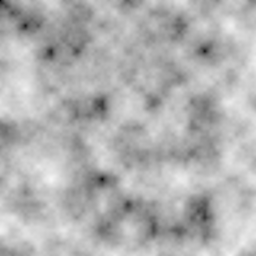
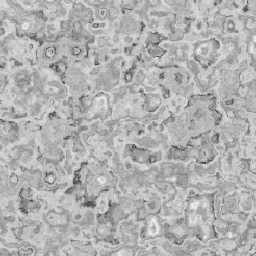
Domain warp

diff --git a/noise/src/render.rs b/noise/src/render.rs
@@ -24,7 +24,7 @@ use bevy::{
             ColorTargetState, ColorWrites, DynamicUniformBuffer, FragmentState, MultisampleState,
             PipelineCache, PrimitiveState, RenderPassColorAttachment, RenderPassDescriptor,
             RenderPipelineDescriptor, Shader, ShaderStages, ShaderType, SpecializedRenderPipeline,
-            SpecializedRenderPipelines, TextureFormat,
+            SpecializedRenderPipelines, StorageBuffer, TextureFormat,
         },
         renderer::{RenderContext, RenderDevice, RenderQueue},
         texture::BevyDefault,
@@ -83,6 +83,7 @@ impl Plugin for NoisePlugin {
 
         render_app
             .init_resource::<NoiseUniformBuffer>()
+            .init_resource::<DomainWarpBuffer>()
             .add_systems(Render, prepare.in_set(RenderSet::Prepare))
             .add_render_graph_node::<ViewNodeRunner<NoiseNode>>(Core2d, NoiseNodeLabel)
             .add_render_graph_edges(Core2d, (Node2d::MainPass, NoiseNodeLabel, Node2d::Bloom));
@@ -111,7 +112,9 @@ pub struct NoiseSettings {
     pub frequency: f32,
     pub amplitude: f32,
     pub enable_fbm: bool,
+    pub enable_domain_warp: bool,
     pub fbm: FBMSettings,
+    pub domain_warp: Vec<DomainWarpSettings>,
 }
 
 impl Default for NoiseSettings {
@@ -121,11 +124,16 @@ impl Default for NoiseSettings {
             frequency: 10.,
             amplitude: 0.5,
             enable_fbm: true,
+            enable_domain_warp: true,
             fbm: FBMSettings {
-                octaves: 4,
+                octaves: 6,
                 lacularity: 2.,
                 gain: 0.5,
             },
+            domain_warp: vec![DomainWarpSettings {
+                offset_a: Vec2 { x: 0., y: 0. },
+                offset_b: Vec2 { x: 5.2, y: 1.3 },
+            }],
         }
     }
 }
@@ -135,6 +143,12 @@ pub struct FBMSettings {
     pub octaves: u32,
     pub lacularity: f32,
     pub gain: f32,
+}
+
+#[derive(ShaderType, Clone, Copy, Reflect)]
+pub struct DomainWarpSettings {
+    pub offset_a: Vec2,
+    pub offset_b: Vec2,
 }
 
 #[derive(ShaderType)]
@@ -150,10 +164,16 @@ pub struct NoiseUniformBuffer {
     pub value: DynamicUniformBuffer<NoiseUniform>,
 }
 
+#[derive(Resource, Default)]
+pub struct DomainWarpBuffer {
+    pub value: StorageBuffer<Vec<DomainWarpSettings>>,
+}
+
 #[derive(Clone, PartialEq, Eq, Hash)]
 pub struct NoisePipelineKey {
     pub ty: NoiseType,
     pub enable_fbm: bool,
+    pub enable_domain_warp: bool,
 }
 
 #[derive(Resource)]
@@ -169,9 +189,12 @@ impl FromWorld for NoisePipeline {
 
         let layout = render_device.create_bind_group_layout(
             None,
-            &BindGroupLayoutEntries::single(
+            &BindGroupLayoutEntries::sequential(
                 ShaderStages::FRAGMENT,
-                binding::uniform_buffer::<NoiseUniform>(false),
+                (
+                    binding::uniform_buffer::<NoiseUniform>(false),
+                    binding::storage_buffer_read_only::<Vec<DomainWarpSettings>>(false),
+                ),
             ),
         );
 
@@ -202,6 +225,10 @@ impl SpecializedRenderPipeline for NoisePipeline {
             shader_defs.push("FBM".into());
         }
 
+        if key.enable_domain_warp {
+            shader_defs.push("DOMAIN_WARP".into());
+        }
+
         RenderPipelineDescriptor {
             label: None,
             layout: vec![self.layout.clone()],
@@ -228,6 +255,7 @@ fn prepare(
     main_view_query: Query<&ExtractedView>,
     noise_settings: Res<NoiseSettings>,
     mut noise_uniform_buffer: ResMut<NoiseUniformBuffer>,
+    mut domain_warp_buffer: ResMut<DomainWarpBuffer>,
     mut sp_pipelines: ResMut<SpecializedRenderPipelines<NoisePipeline>>,
     mut pipeline: ResMut<NoisePipeline>,
     pipeline_cache: Res<PipelineCache>,
@@ -242,6 +270,7 @@ fn prepare(
         NoisePipelineKey {
             ty: noise_settings.ty,
             enable_fbm: noise_settings.enable_fbm,
+            enable_domain_warp: noise_settings.enable_domain_warp,
         },
     ));
 
@@ -256,6 +285,13 @@ fn prepare(
         fbm: noise_settings.fbm,
     });
     noise_uniform_buffer
+        .value
+        .write_buffer(&render_device, &render_queue);
+
+    domain_warp_buffer
+        .value
+        .set(noise_settings.domain_warp.clone());
+    domain_warp_buffer
         .value
         .write_buffer(&render_device, &render_queue);
 }
@@ -283,7 +319,11 @@ impl ViewNode for NoiseNode {
         else {
             return Ok(());
         };
+
         let Some(noise_uniform) = world.resource::<NoiseUniformBuffer>().value.binding() else {
+            return Ok(());
+        };
+        let Some(domain_warp_storage) = world.resource::<DomainWarpBuffer>().value.binding() else {
             return Ok(());
         };
 
@@ -292,7 +332,7 @@ impl ViewNode for NoiseNode {
         let bind_group = render_context.render_device().create_bind_group(
             None,
             &pipeline.layout,
-            &BindGroupEntries::single(noise_uniform),
+            &BindGroupEntries::sequential((noise_uniform, domain_warp_storage)),
         );
 
         let mut pass = render_context.begin_tracked_render_pass(RenderPassDescriptor {
